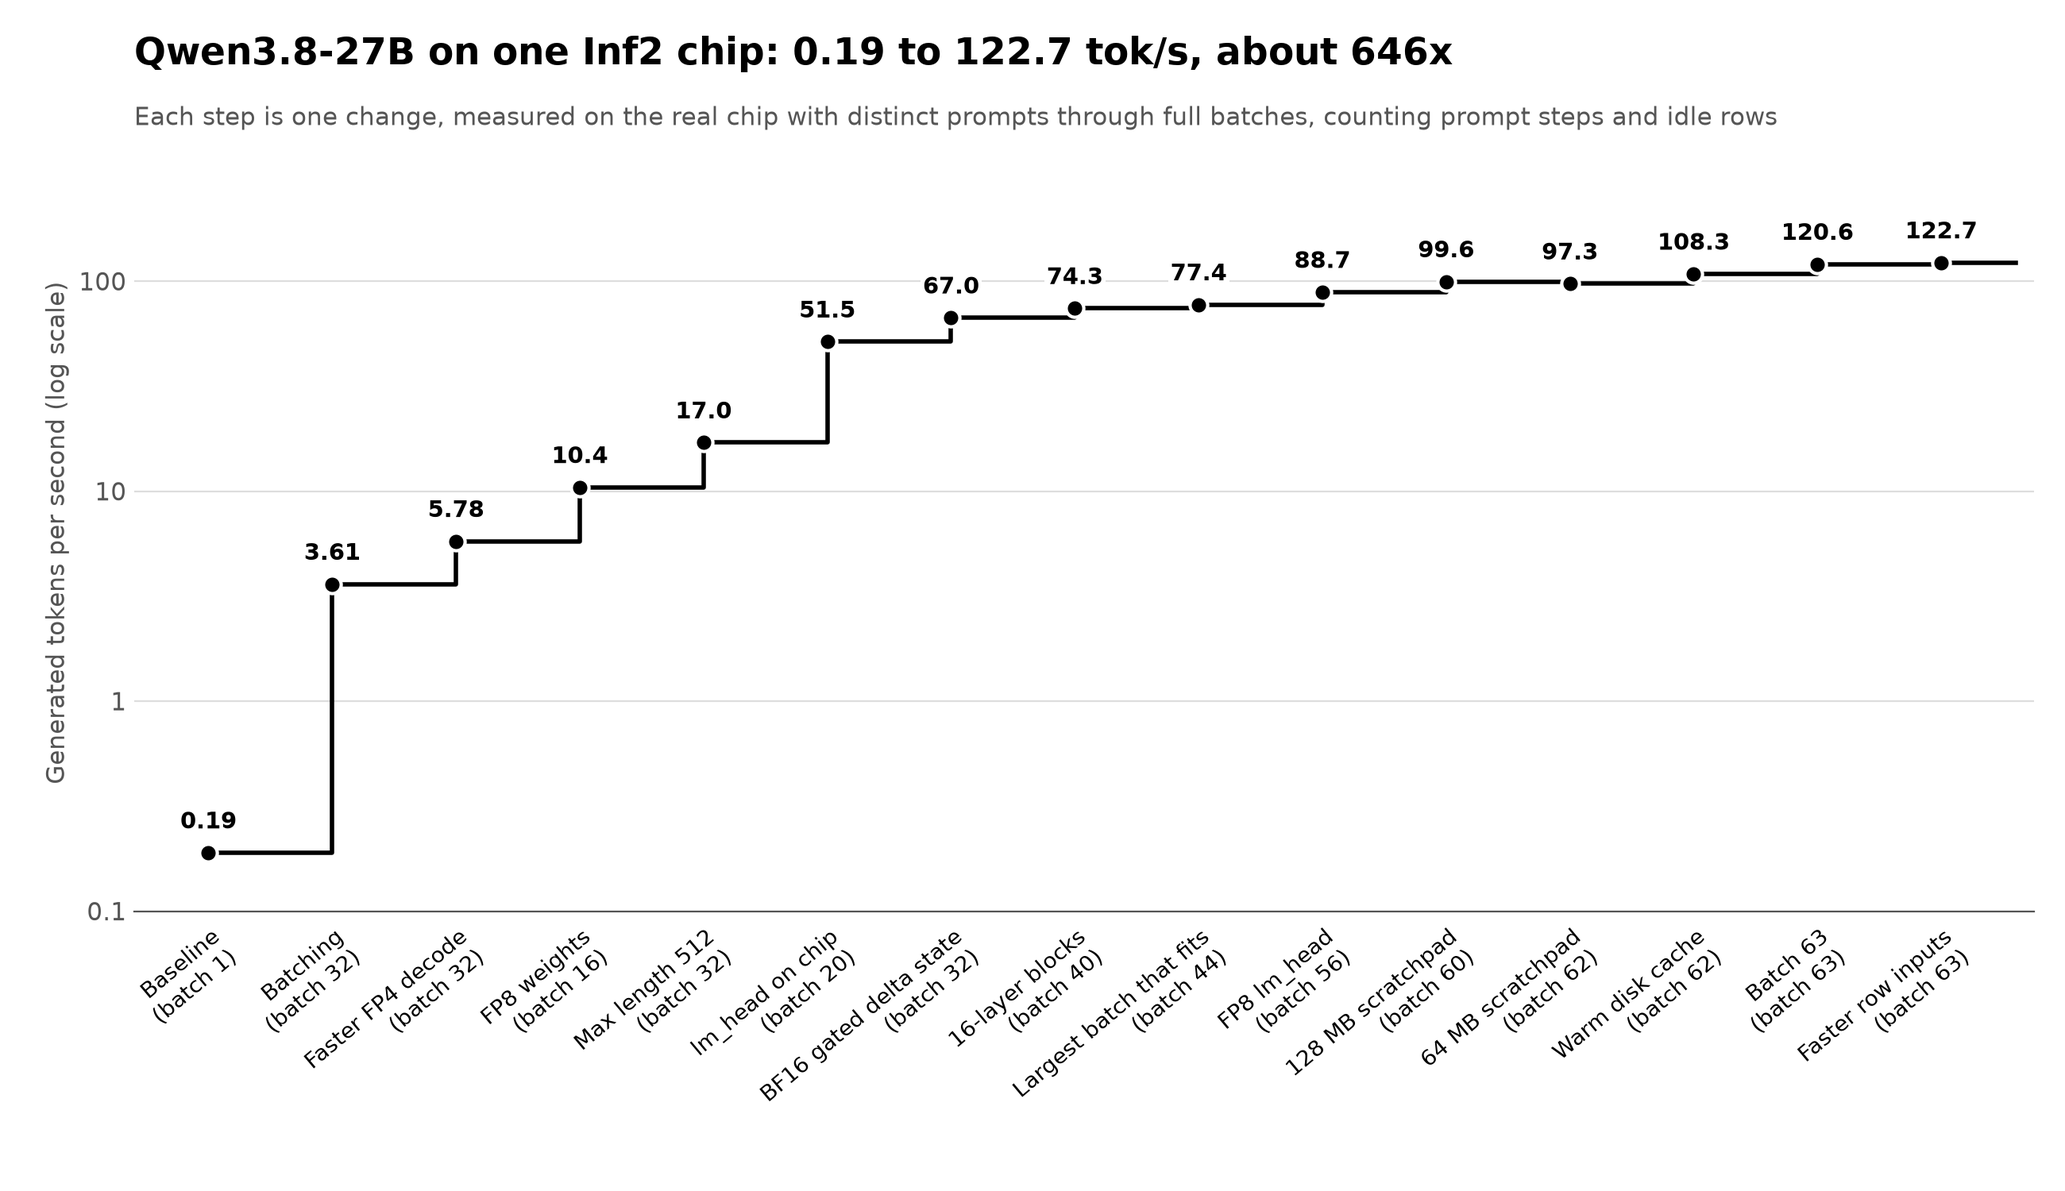
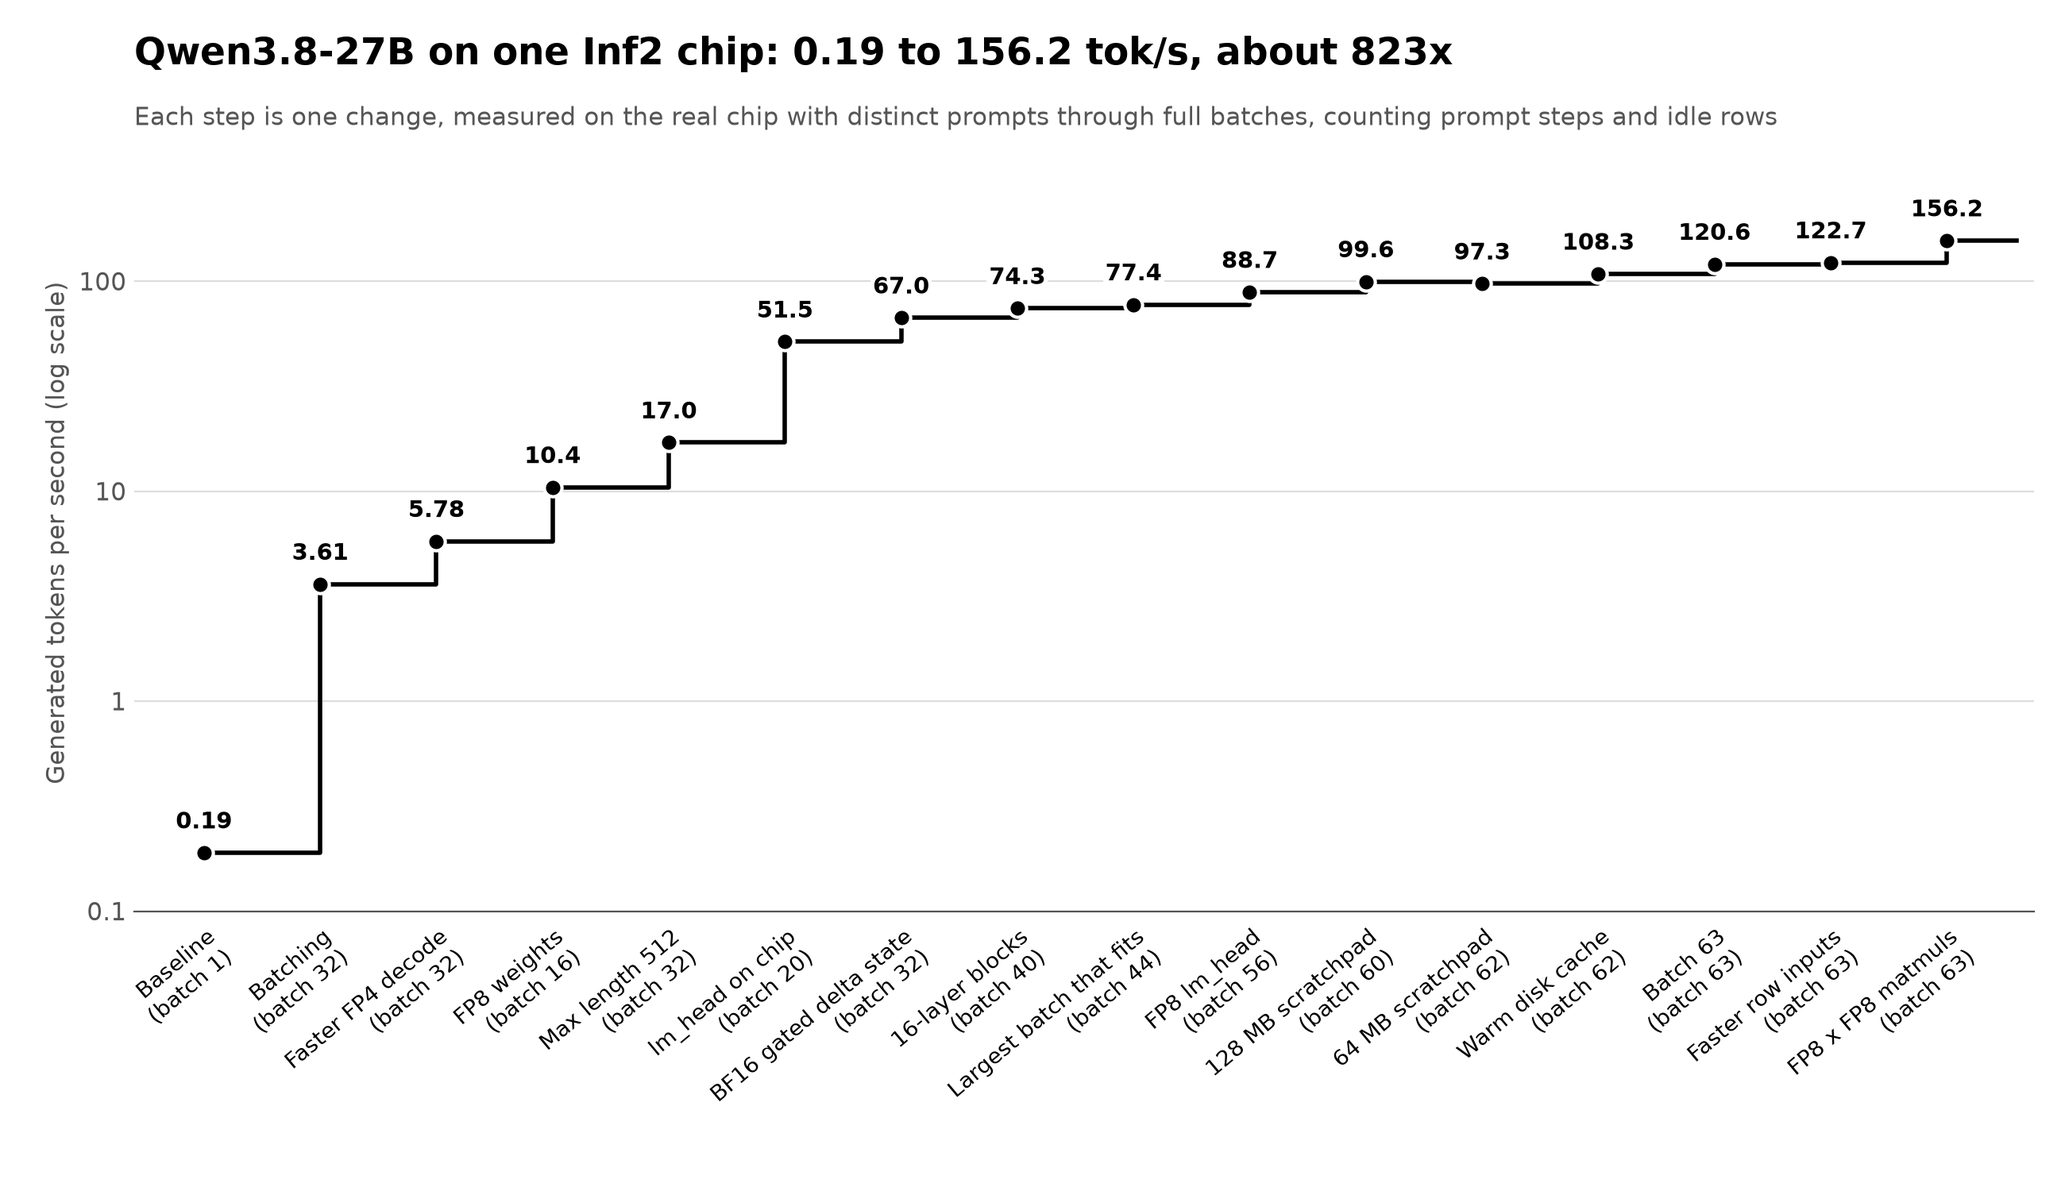
Multiply FP8 by FP8 in the matmul kernel: 156.20 generated tok/s at batch 63, up from 123.23
The Tensor Engine on NeuronCore-v2 only multiplies FP8 by FP8. With BF16 activations the compiler
widened every FP8 weight tile to BF16 on the Vector Engine, which held weight streaming to 95 G
weights/s. The kernel now rounds its input to FP8 e5m2 once per call and reads weights 2048 columns
at a time, so one 5120 x 8704 matrix takes 238 us instead of 478.

Measured with scripts/batch_generate.py on inf2.xlarge at batch 63, max length 512: chip time per step
0.261 s -> 0.202 s, and 123.23 -> 156.20 generated tok/s against the previous build rerun in the same
session. Row 0 matches, and the saved passage has 0 wrong tokens and 1 near-tie flip.

e5m2 keeps 2 mantissa bits and an exponent per value, finer than the MXFP4 activations the checkpoint
was calibrated for. On a tiny model it gives under half MXFP4's logit error, now a test. On real weights
the quality check gives 316 of 323 against 315, and the same top token at 322 of 324 positions.

Claude-Session: https://claude.ai/code/session_01P9g6a6dAu8efg3tE3ruBkx

diff --git a/qwen38_inf2/kernels.py b/qwen38_inf2/kernels.py
@@ -7,6 +7,9 @@ import neuronxcc.nki.language as nl
 # The Tensor Engine contracts at most 128 elements per instruction and produces at most 512 output columns.
 CONTRACT_TILE = 128
 OUTPUT_TILE = 512
+# Weight columns read per DMA. Each partition then gets 2 KB at a time, against 512 bytes for one output tile,
+# which reads weights about 20% faster.
+LOAD_TILE = 2048
 
 
 def _tiles(total: int, size: int) -> list[tuple[int, int]]:
@@ -15,6 +18,11 @@ def _tiles(total: int, size: int) -> list[tuple[int, int]]:
 
 def fp8_linear_body(x: nl.ndarray, weight: nl.ndarray) -> nl.ndarray:
     """``x.T @ weight``, with weights read straight from memory as FP8, so nothing is decoded on the chip.
+
+    `x` is rounded to FP8 e5m2 too, because the Tensor Engine on NeuronCore-v2 only multiplies FP8 by FP8.
+    With BF16 `x` the compiler widens every weight tile to BF16 first, which halved the speed. e5m2 keeps
+    2 mantissa bits and an exponent per value, which is finer than the MXFP4 activations, 1 mantissa bit per value
+    and one exponent per 32, that the checkpoint was calibrated for.
 
     Args:
         x: BF16 ``[in_features, batch]``. Stationary in the Tensor Engine, so batch can be at most 128.
@@ -30,16 +38,19 @@ def fp8_linear_body(x: nl.ndarray, weight: nl.ndarray) -> nl.ndarray:
 
     x_tiles = []
     for start, size in contract_tiles:
-        x_tiles.append(nl.load(x[start : start + size, :]))
+        x_tiles.append(nisa.tensor_copy(nl.load(x[start : start + size, :]), dtype=nl.float8_e5m2))
 
-    for out_start, out_size in _tiles(out_features, OUTPUT_TILE):
-        psum = nl.zeros((nl.par_dim(batch), out_size), nl.float32, buffer=nl.psum)
+    for load_start, load_size in _tiles(out_features, LOAD_TILE):
+        outputs = _tiles(load_size, OUTPUT_TILE)
+        psums = [nl.zeros((nl.par_dim(batch), size), nl.float32, buffer=nl.psum) for _, size in outputs]
         for x_tile, (start, size) in zip(x_tiles, contract_tiles):
-            moving = nl.load(weight[start : start + size, out_start : out_start + out_size]).view(nl.float8_e5m2)
-            psum += nisa.nc_matmul(x_tile, moving)
-        result = nl.ndarray((nl.par_dim(batch), out_size), dtype=x.dtype, buffer=nl.sbuf)
-        result[:, :] = nisa.tensor_copy(psum, engine=nisa.vector_engine)
-        nl.store(out[:, out_start : out_start + out_size], result)
+            moving = nl.load(weight[start : start + size, load_start : load_start + load_size]).view(nl.float8_e5m2)
+            for psum, (out_start, out_size) in zip(psums, outputs):
+                psum += nisa.nc_matmul(x_tile, moving[:, out_start : out_start + out_size])
+        for psum, (out_start, out_size) in zip(psums, outputs):
+            result = nl.ndarray((nl.par_dim(batch), out_size), dtype=x.dtype, buffer=nl.sbuf)
+            result[:, :] = nisa.tensor_copy(psum, engine=nisa.vector_engine)
+            nl.store(out[:, load_start + out_start : load_start + out_start + out_size], result)
     return out
 
 

diff --git a/tests/test_model_parity.py b/tests/test_model_parity.py
@@ -7,7 +7,7 @@ from dataclasses import replace
 import pytest
 import torch
 
-from qwen38_inf2 import checkpoint
+from qwen38_inf2 import checkpoint, fp4, model as model_module
 from qwen38_inf2.config import tiny_config
 from qwen38_inf2.cpu_sim import SimulatedCoresStep, ThreadedAllReduce
 from qwen38_inf2.generate import BlockChain, ChipHead, HostHead, batch_step_inputs, batched_greedy_generate, greedy_generate, step_inputs
@@ -242,16 +242,37 @@ def test_batched_graph_matches_two_simulated_cores(tmp_path):
     assert got == want
 
 
-def test_fp8_weights_match_the_reference():
-    cfg = replace(tiny_config(), weight_format="fp8")
+def fp8_logits(cfg):
     reference, tensors = build_reference(cfg)
     model = load_model(tensors, cfg, torch.float32)
     head = host_head(tensors)
     with torch.no_grad():
         want = reference(input_ids=torch.tensor([PROMPT]), use_cache=False).logits[0].float()
         got = torch.stack([head.logits(h) for h in run_tokens(model, cfg, head, PROMPT, torch.float32)])
+    return got, want
+
+
+def test_fp8_weights_match_the_reference(monkeypatch):
+    # Without the kernel's rounding of activations, FP8 weights alone change nothing.
+    monkeypatch.setattr(model_module, "fp8_round", lambda x: x)
+    got, want = fp8_logits(replace(tiny_config(), weight_format="fp8"))
     assert (got - want).abs().max() < 1e-4
     assert torch.equal(got.argmax(-1), want.argmax(-1))
+
+
+def mxfp4_round(x):
+    """The checkpoint's own activation format: FP4 values sharing one power-of-two scale per 32, as vLLM runs it."""
+    flat = x.float().reshape(-1, x.shape[-1])
+    return fp4.decode_host(*fp4.encode_host(flat), torch.float32).reshape(x.shape).to(x.dtype)
+
+
+def test_fp8_activations_are_closer_to_the_reference_than_the_checkpoints_mxfp4(monkeypatch):
+    cfg = replace(tiny_config(), weight_format="fp8")
+    got, want = fp8_logits(cfg)
+    monkeypatch.setattr(model_module, "fp8_round", mxfp4_round)
+    intended, _ = fp8_logits(cfg)
+    # The checkpoint was calibrated for MXFP4 activations, so that is the error its makers accepted.
+    assert (got - want).std() < 0.7 * (intended - want).std()
 
 
 @pytest.mark.parametrize("head_format", ["bf16", "fp8"])

diff --git a/qwen38_inf2/model.py b/qwen38_inf2/model.py
@@ -72,6 +72,11 @@ def apply_rotary(q: torch.Tensor, k: torch.Tensor, cos: torch.Tensor, sin: torch
     return torch.cat((q_out, q_pass), dim=-1), torch.cat((k_out, k_pass), dim=-1)
 
 
+def fp8_round(x: torch.Tensor) -> torch.Tensor:
+    """Round to FP8 e5m2 and back, as the chip's matmul kernel does to its input."""
+    return x.to(torch.float8_e5m2).to(x.dtype)
+
+
 def _frozen(*shape: int, dtype: torch.dtype) -> nn.Parameter:
     return nn.Parameter(torch.zeros(*shape, dtype=dtype), requires_grad=False)
 
@@ -101,6 +106,8 @@ class FP8Linear(nn.Module):
 
     def forward(self, x: torch.Tensor) -> torch.Tensor:
         if x.device.type == "cpu":
+            # The chip's kernel rounds x to FP8 e5m2 too, since its Tensor Engine multiplies FP8 only by FP8.
+            x = fp8_round(x)
             return F.linear(x, fp4.fp8_to_float(self.weight_fp8).T.to(x.dtype))
         from .kernels import fp8_linear
 

diff --git a/scripts/plot_throughput.py b/scripts/plot_throughput.py
@@ -31,6 +31,7 @@ LABELS = [
     "Warm disk cache",
     "Batch 63",
     "Faster row inputs",
+    "FP8 x FP8 matmuls",
 ]
 INK, MUTED, GRID = "#000000", "#555555", "#dddddd"
 

diff --git a/README.md b/README.md
@@ -2,7 +2,7 @@
 
 Runs the text part of [RedHatAI/Qwen3.8-27B-MXFP4](https://huggingface.co/RedHatAI/Qwen3.8-27B-MXFP4) on one AWS Inferentia2 chip (two NeuronCores), with its FP4 weights converted to FP8 and greedy decoding.
 
-**Status: runs end to end on a real `inf2.xlarge`.** Currently 122.67 generated tokens/s at batch 63 with a maximum of 512 tokens per sequence, measured. See [the throughput log](docs/throughput.md) and [the field notes](docs/field_notes.md), which cover setup on the Amazon Linux Neuron AMI.
+**Status: runs end to end on a real `inf2.xlarge`.** Currently 156.20 generated tokens/s at batch 63 with a maximum of 512 tokens per sequence, measured. See [the throughput log](docs/throughput.md) and [the field notes](docs/field_notes.md), which cover setup on the Amazon Linux Neuron AMI.
 
 **Goal: maximum throughput, not latency.** Every design choice is judged by total tokens per second across all sequences. Time per token doesn't matter, so large batches and slow steps are fine.
 
@@ -10,7 +10,7 @@ Runs the text part of [RedHatAI/Qwen3.8-27B-MXFP4](https://huggingface.co/RedHat
 
 This describes the build measured in [the throughput log](docs/throughput.md), which also gives the effect of each change.
 
-- **FP8 weights on a chip without FP4.** NeuronCore-v2 has no FP4 type (native MX compute is Trn3 only), and the weights would take about 22.7 GiB per core at BF16. So they are converted once, when prepared, to one FP8 byte per value. Two NKI kernels ([kernels.py](qwen38_inf2/kernels.py)) have the Tensor Engine read those bytes with a cheap cast to BF16, so no decode runs on the chip. FP8 holds all but 0.0003% of scale groups exactly, and the rest are weights under 1e-4 that round to the nearest FP8 value.
+- **FP8 weights on a chip without FP4.** NeuronCore-v2 has no FP4 type (native MX compute is Trn3 only), and the weights would take about 22.7 GiB per core at BF16. So they are converted once, when prepared, to one FP8 byte per value. Two NKI kernels ([kernels.py](qwen38_inf2/kernels.py)) have the Tensor Engine read those bytes directly. The matmul kernel rounds its input to FP8 e5m2, because NeuronCore-v2 multiplies FP8 only by FP8, so no decode or weight cast runs on the chip. FP8 holds all but 0.0003% of scale groups exactly, and the rest are weights under 1e-4 that round to the nearest FP8 value.
 - **Memory limits the batch.** Chip time per step fits about 0.118 s + 0.0031 s per row, so more rows keep helping until memory runs out. A core fills at 15.94 GiB, which the runtime's memory table labels GB:
 
   | | Per NeuronCore, at batch 62 |
@@ -36,25 +36,25 @@ Two earlier designs are still available. `--weight-format fp4`, the default in `
 
 ### Differences from the checkpoint's intended serving
 
-Weights are FP8, converted from the checkpoint's FP4. Activations and the KV cache run at BF16, while the checkpoint was calibrated for FP4 activations and an FP8 cache. Gated delta state also runs at BF16, where the reference uses float32.
+Weights are FP8, converted from the checkpoint's FP4. Matmul inputs are rounded to FP8 e5m2 and the KV cache runs at BF16, while the checkpoint was calibrated for MXFP4 activations and an FP8 cache. e5m2 keeps 2 mantissa bits and an exponent per value, against 1 mantissa bit and one exponent per 32 values for MXFP4, so it is the finer of the two. Gated delta state also runs at BF16, where the reference uses float32.
 
-These choices change some outputs. Against an earlier float32-state build at batch 20, 33 of 40 sequences are identical, and part of that difference comes from batch size. On 324 tokens of well-known English text, BF16 and float32 state both get the real next token at 315 of 323 positions and pick the same token at 323 of 324 (`scripts/quality_check.py`). Famous text is an easy test, so this rules out large damage but not subtle damage. Nothing has been compared with FP4 activations and an FP8 cache.
+These choices change some outputs. Against an earlier float32-state build at batch 20, 33 of 40 sequences are identical, and part of that difference comes from batch size. On 324 tokens of well-known English text, BF16 and float32 state both get the real next token at 315 of 323 positions and pick the same token at 323 of 324 (`scripts/quality_check.py`). Famous text is an easy test, so this rules out large damage but not subtle damage. With FP8 matmul inputs the same check gives 316 of 323, and the same top token as the BF16-input build at 322 of 324. Nothing on real weights has been compared with MXFP4 activations and an FP8 cache.
 
 ## Run the measured build
 
-These commands give the 122.67 tok/s build. The rest of this README covers the batch-1 FP4 graph used for first bring-up, which is what `scripts/generate.py` and `scripts/chip_check.py` take, and it explains how to set up the compiler, checkpoint and instance used here. [The field notes](docs/field_notes.md) cover installing the runtime and Python packages on the Amazon Linux Neuron AMI.
+These commands give the 156.20 tok/s build. The rest of this README covers the batch-1 FP4 graph used for first bring-up, which is what `scripts/generate.py` and `scripts/chip_check.py` take, and it explains how to set up the compiler, checkpoint and instance used here. [The field notes](docs/field_notes.md) cover installing the runtime and Python packages on the Amazon Linux Neuron AMI.
 
-The compiled graphs are in [the `graphs-b63` release](https://github.com/Slug-ai/qwen38-27b-aws/releases/tag/graphs-b63), which is 14 MB to download. From the repo root:
+The graphs in [the `graphs-b63` release](https://github.com/Slug-ai/qwen38-27b-aws/releases/tag/graphs-b63) predate FP8 matmul inputs and give about 123 tok/s, so compile instead: the layers take about 2 minutes on the `inf2.xlarge` itself. To fetch the older graphs from the repo root:
 
 ```bash
 curl -fL https://github.com/Slug-ai/qwen38-27b-aws/releases/download/graphs-b63/graphs_b63.tar.gz | tar xz
 ```
 
-Or compile the layers and `lm_head` yourself. Run at the same time on a 16-thread machine, these took about 4 and 5.5 minutes:
+Compile the layers and `lm_head`:
 
 ```bash
 python scripts/compile.py --config tests/fixtures/config.json --layers 16 --max-seq-len 512 --batch-size 63 \
-  --weight-format fp8 --recurrent-state bf16 --optimize-layout --output artifacts/block16_b63_s512_fp8_bf16state
+  --weight-format fp8 --recurrent-state bf16 --output artifacts/block16_b63_s512_fp8_bf16state
 python scripts/compile.py --config tests/fixtures/config.json --head --head-format fp8 --batch-size 63 --output artifacts/head_fp8_b63
 ```
 

diff --git a/docs/field_notes.md b/docs/field_notes.md
@@ -116,3 +116,8 @@ Goal: tokens per second across all sequences. Latency per token doesn't matter.
 - Full runs at nearby batches: 108.13 at 58, 110.38 at 59, 112.12 at 61, against 122.67 at 63. Batch 63 is a sweet spot in the compiler's plan. It's also why its token comparison differs a little from its neighbours': 31 of 40 sequences against 33.
 - A separate prompt path isn't worth building. A prototype gated delta layer taking 4 tokens per row per call, sharing one weight read, took 8.69 ms against 2.24 ms for one token at batch 32, in two runs each. That saves about 3% per token, because the state still updates token by token and that's most of the layer's cost. MLPs would save more, but 48 of the 64 layers are gated delta, so prompt tokens would get maybe 20% cheaper before the extra graphs' memory cost.
 - A fresh `inf2.xlarge` on 2026-11-05, set up from the README with the graphs from the `graphs-b63` release, gave 114.44 generated tok/s on its first full run, against 122.67 recorded. Chip time matched, 0.261 s per step against 0.262, and host time was 0.042 s per step against 0.022, so the gap is on the host. Load took 190 s and reading lm_head and the embeddings 38 s. Correctness passed: row 0 matched and 38 of 38 saved-passage positions were right. A later run on the same instance, with `scripts/benchmark.py`, gave 122.21 generated tok/s with row 0 matching, so the first run's gap didn't repeat.
+- What limits streaming FP8 weights, from `nki.benchmark` on one 5120 x 8704 matrix at batch 64 on one core: the repo's kernel (BF16 activations, FP8 weights) ran at 95 G weights/s. BF16 weights in the same kernel also ran at 95 G weights/s, which is 192 GB/s, so HBM isn't the limit. The Tensor Engine alone, on weights already in SBUF, runs at 217 G weights/s for FP8 x FP8 or BF16 x BF16, but only 131 for BF16 x FP8, because the compiler widens every weight tile on the Vector Engine first. With weights as the stationary operand it reaches 424 G weights/s at batch 64. DMA reads from HBM reach 233 GB/s with 2 KB per partition per transfer. FP8 x FP8 with 2 KB loads ran the matrix in 238 us, against 478 us.
+- NKI on NeuronCore-v2 has no mixed FP8 matmul: e4m3 x e5m2 fails to compile, so activations must be cast to the weights' e5m2.
+- `neuronx-cc` 2.23 rejects FP8 types in XLA graphs for inf2 (`NCC_ESPP047: Data type F8E4M3FN is not supported`). FP8 is only usable inside NKI kernels, as uint8 tensors viewed as FP8 there.
+- `neuron-profile view --output-format json` on a whole 16-layer block used all 15 GB of RAM, and the instance stopped answering SSH until it was rebooted. Use `summary-text` for whole blocks.
+- One 16-layer block at batch 63 now compiles in about 110 s on `inf2.xlarge` itself, so compiling there works.

diff --git a/docs/throughput.md b/docs/throughput.md
@@ -27,6 +27,7 @@ One change per row, each measured on the real chip with `scripts/batch_generate.
 | 13 | Read lm_head and the embeddings into the disk cache after loading | 62 | 0.29 | 0.03 | 108.32 | 182.03 | yes, 38 of 38 |
 | 14 | One more row, and the compiler's plan for this batch size is faster | 63 | 0.26 | 0.03 | 120.65 | 202.78 | yes, 38 of 38, see below |
 | 15 | Build each row's inputs in one vectorized call | 63 | 0.26 | 0.02 | 122.67 | 206.18 | yes, 38 of 38, see below |
+| 16 | Matmul inputs rounded to FP8 e5m2, so the Tensor Engine multiplies FP8 by FP8 with no weight cast, and weights read 2048 columns at a time | 63 | 0.20 | 0.02 | 156.20 | 262.54 | yes, 37 of 38 and 1 near tie, see below |
 
 Rows 1 to 4 allow 2048 tokens of prompt plus output, and from row 5 it's 512. Batch 24 at 2048 ran out of chip memory.
 
@@ -39,6 +40,8 @@ Row 11's host time fell with no host code change, probably because the checkpoin
 Row 13 reached 192.1 tok/s with every row generating, over 13 steps. A run at batch 60 with the same warm cache gave 101.01 generated tok/s and 0.30 s on the chip, so batch 62 really is faster per step there.
 
 Row 15 reached 214.5 tok/s with every row generating, over 19 steps. At batch 63, the token comparison with the float32-state build is 31 of 40 identical sequences and 1135 of 1280 tokens before a first difference. The quality check there still gives 315 of 323, and the same top token as the float32-state build at all 324 positions.
+
+Row 16 changes numbers: every matmul's input is rounded to FP8 e5m2, 2 mantissa bits with an exponent per value. The checkpoint was calibrated for MXFP4 activations, 1 mantissa bit with one exponent per 32 values, so this is still finer than its intended serving, and on a tiny model it gives under half the logit error of MXFP4 activations (`tests/test_model_parity.py`). The quality check gives 316 of 323 against 315 for row 15's build, with the same top token at 322 of 324 positions. Greedy text drifts more, because each near tie can flip: 30 of 126 sequences are identical to row 15's, and 2110 of 4032 tokens come before a first difference. Row 15's build, rerun in the same session on this instance, gave 123.23 generated tok/s, so the gain is 27%. With every row generating, row 16 reached 269.3 tok/s over 19 steps.
 
 Raw results are in [throughput/](throughput/). `git log docs/throughput.md` gives the commit for each row.
 
